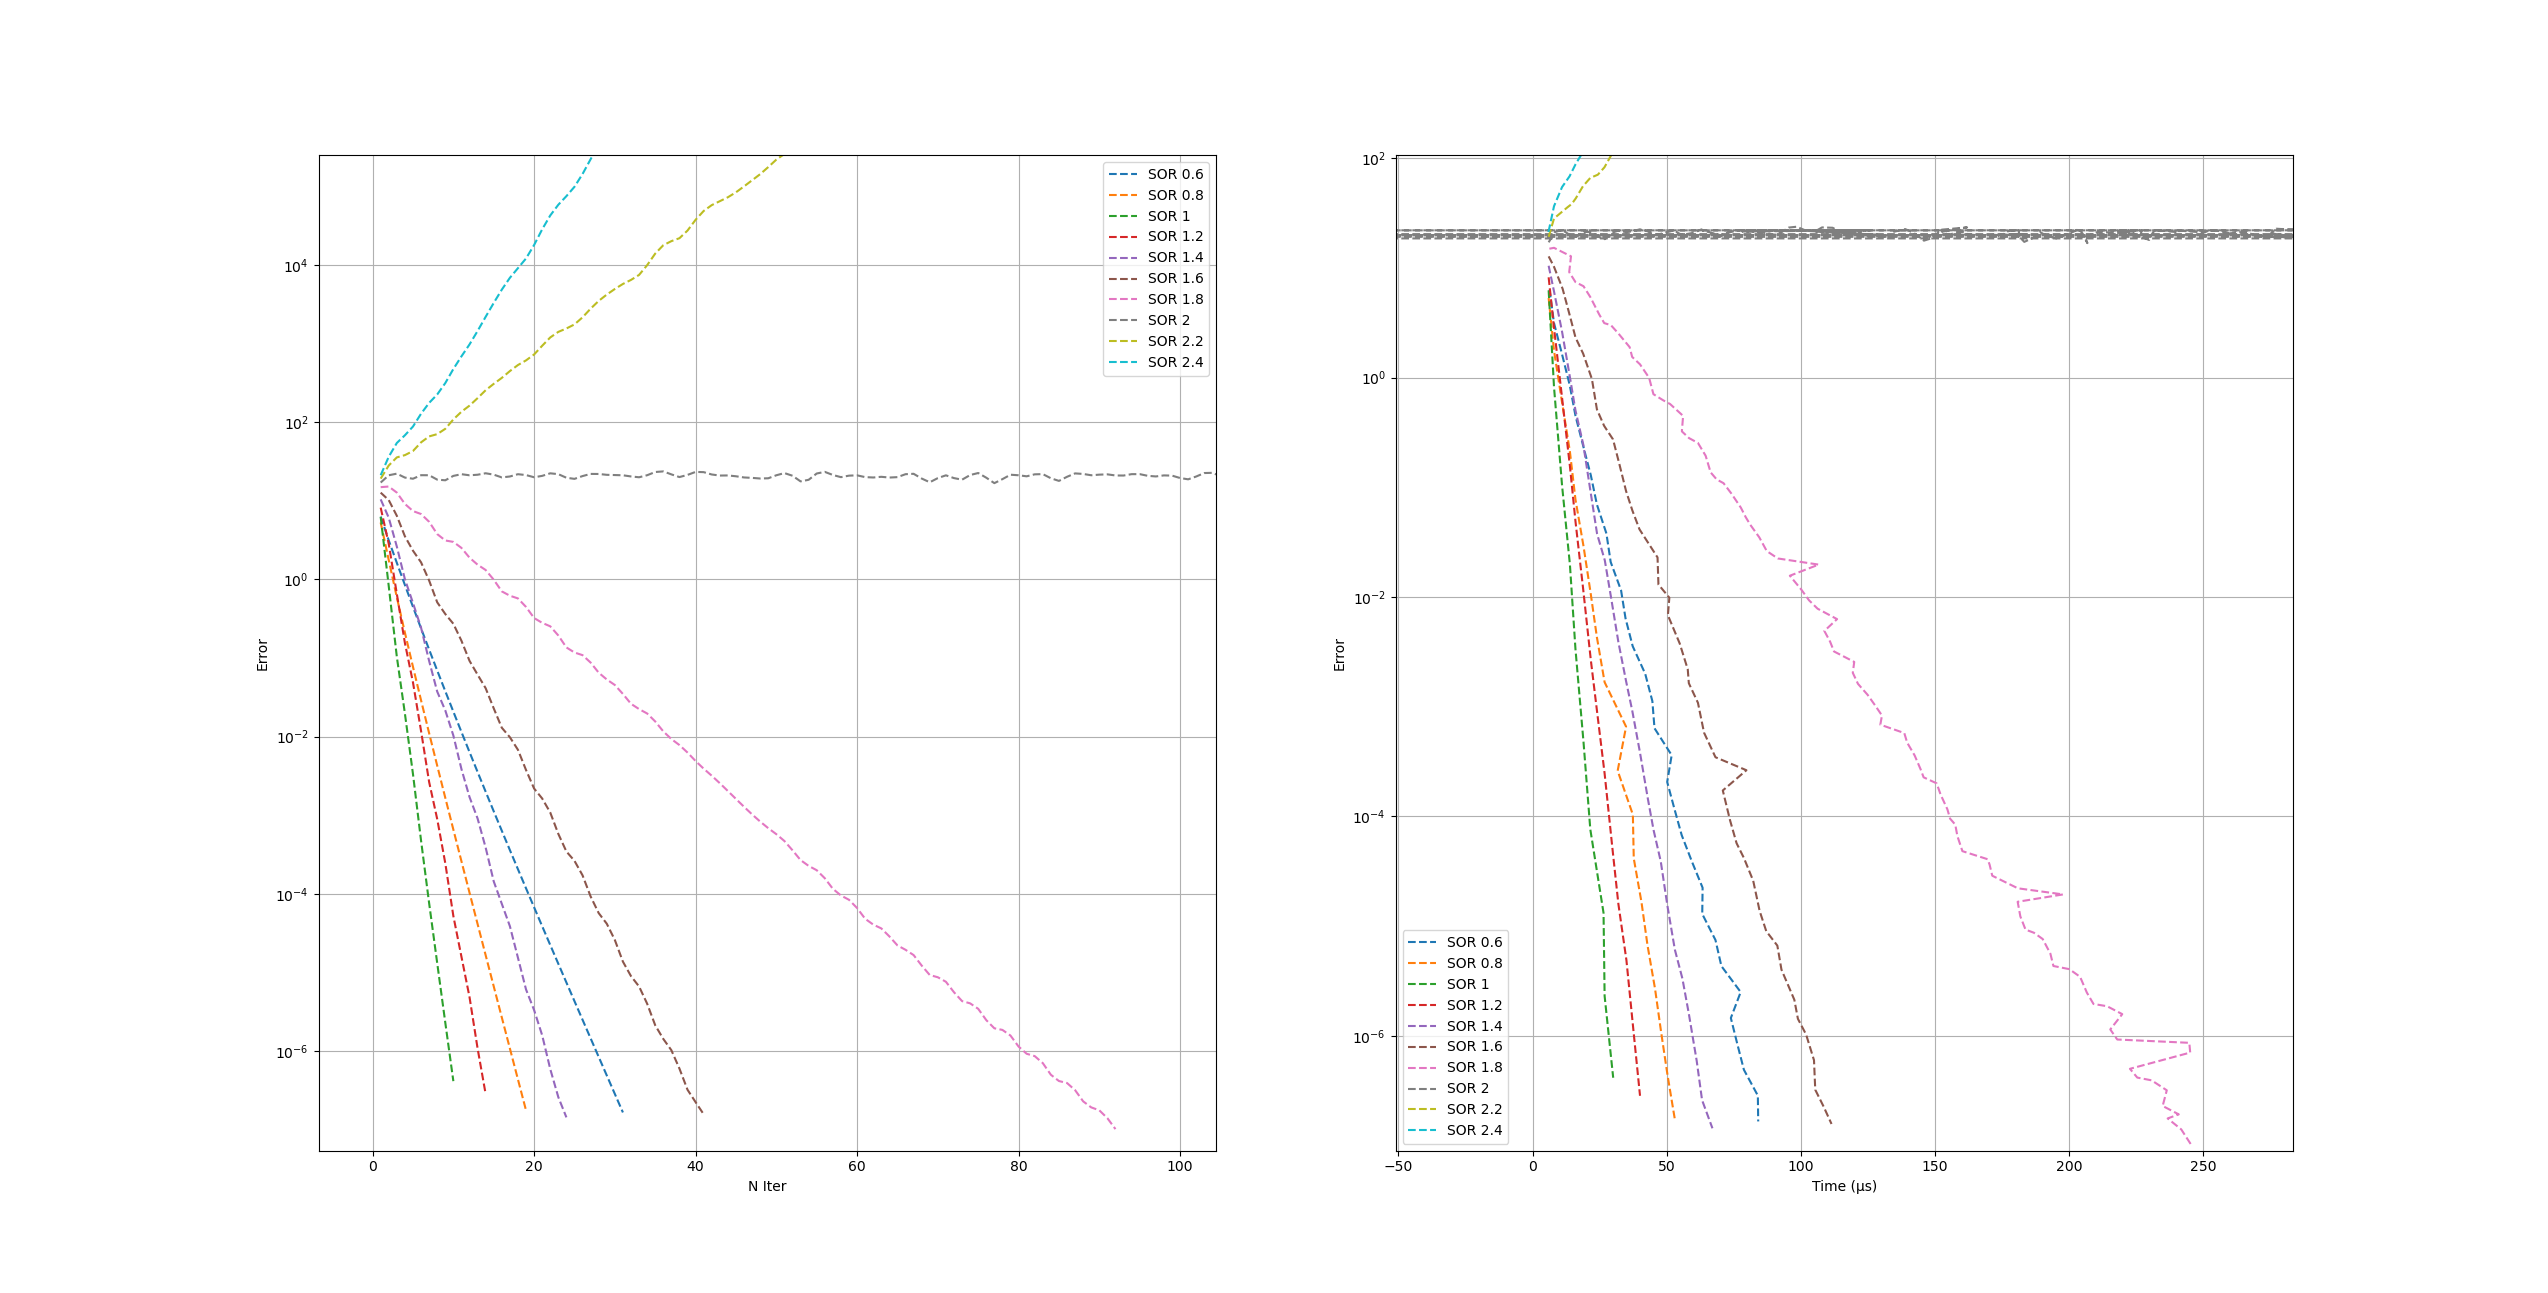
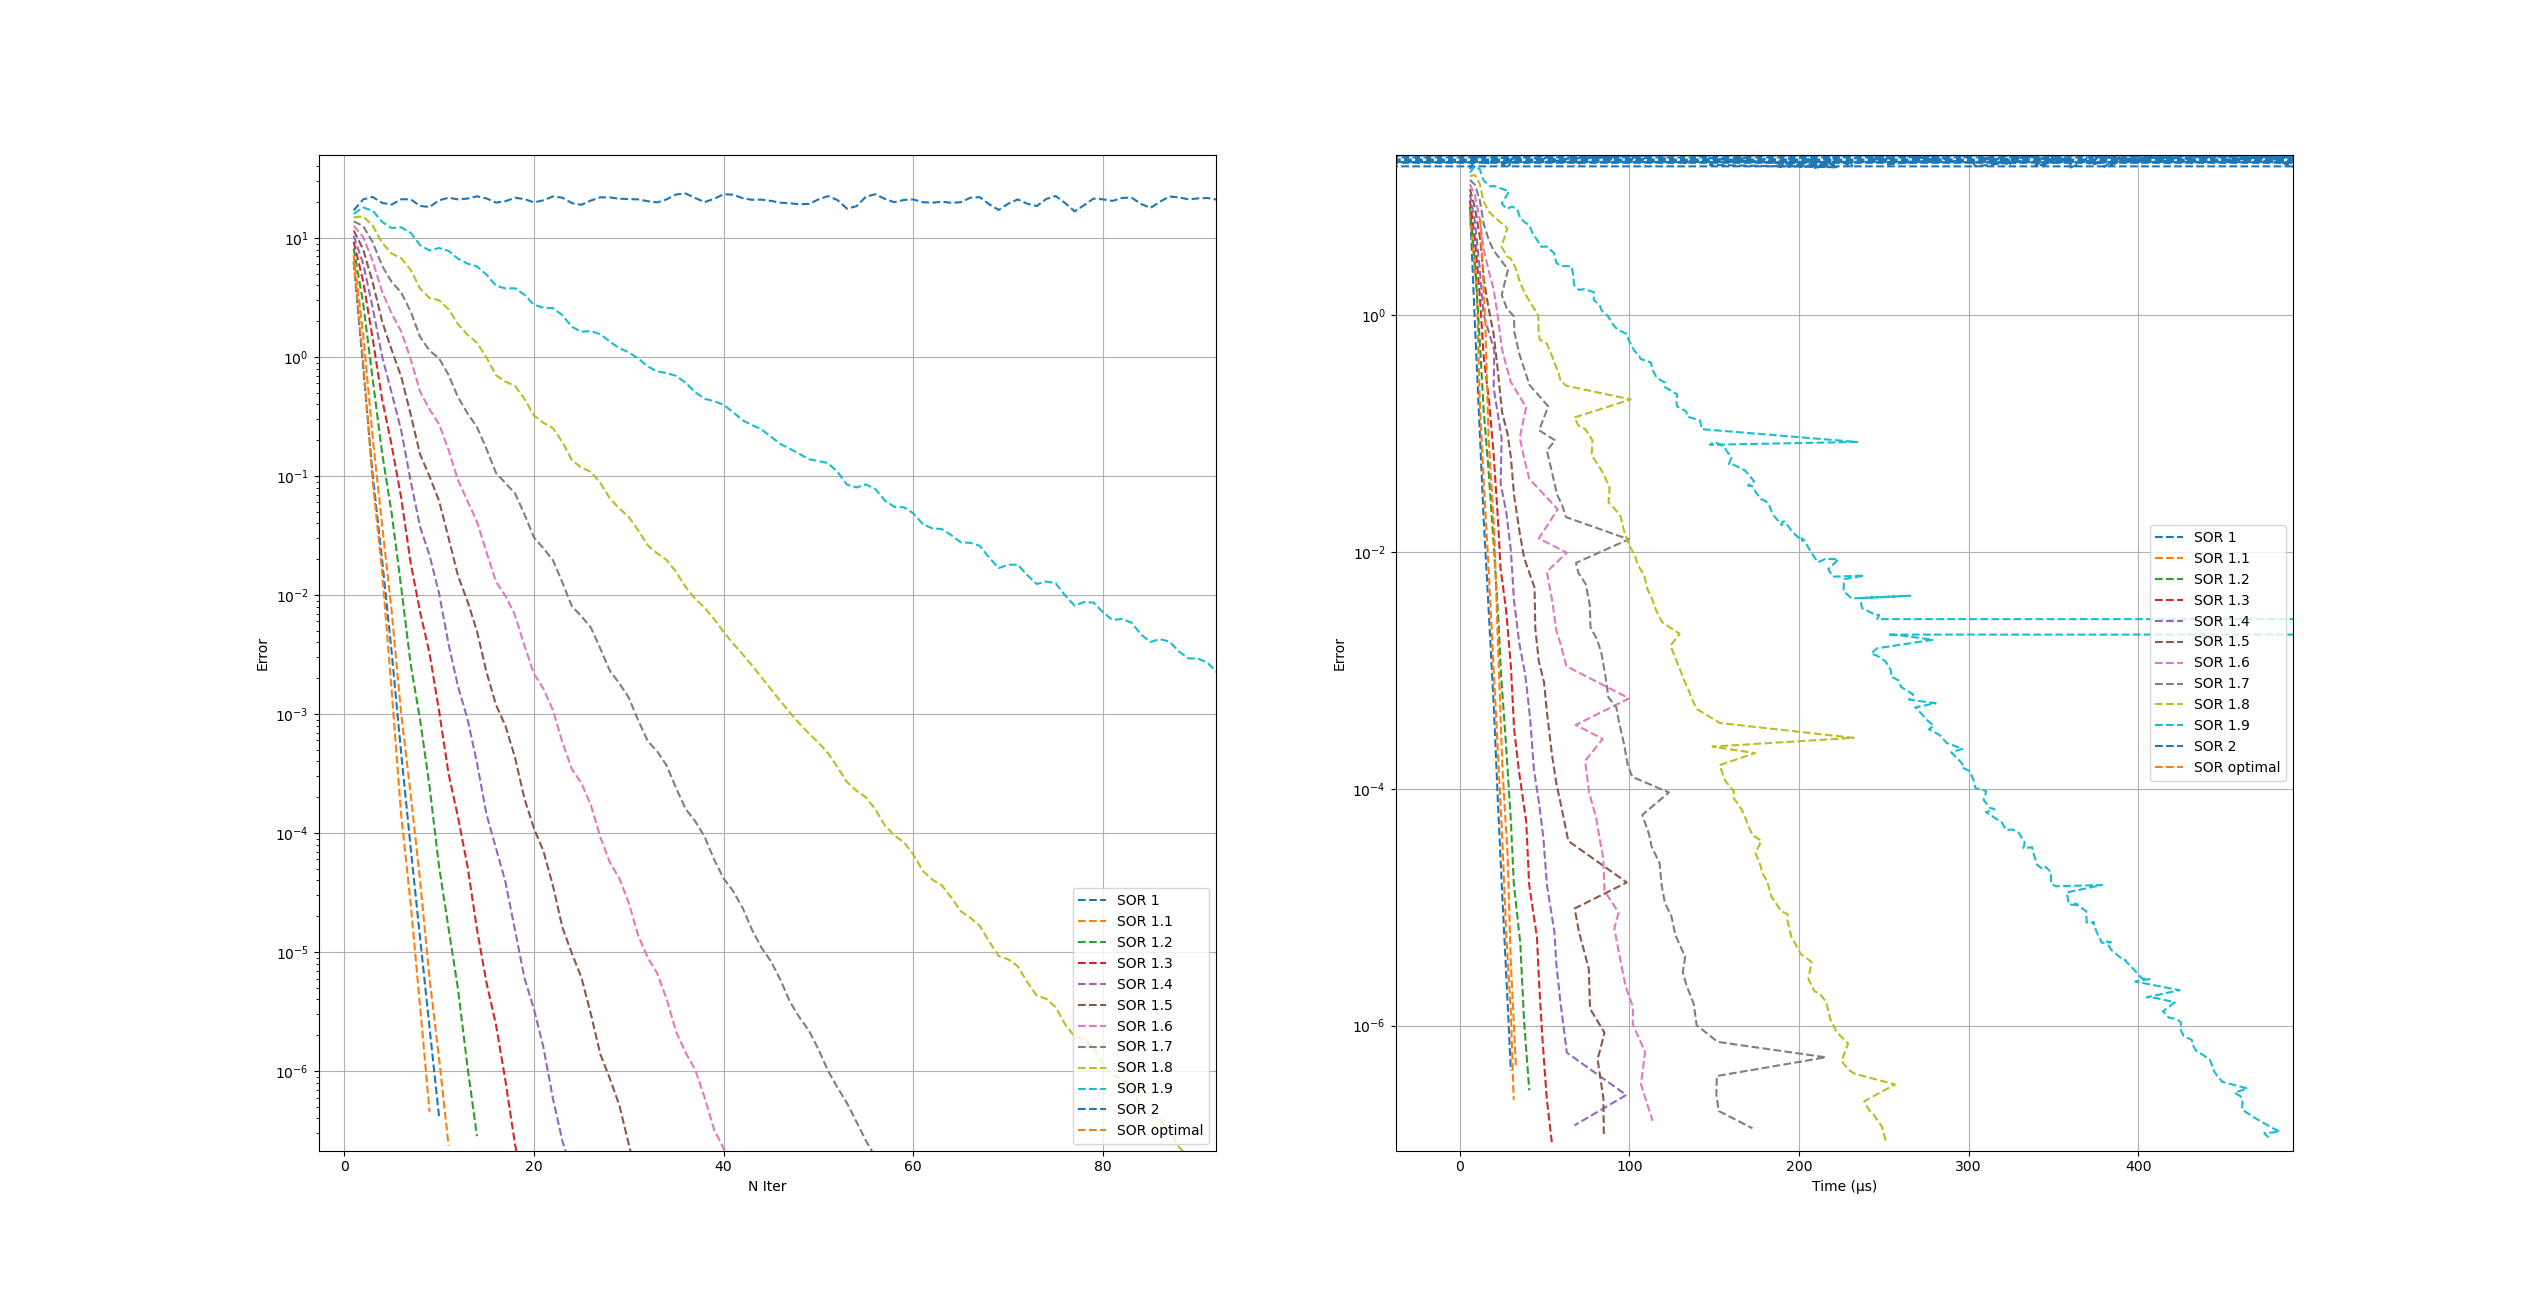
upgrade SORvsOmega

diff --git a/timeMesure/SORvsOmega.cpp b/timeMesure/SORvsOmega.cpp
@@ -5,7 +5,7 @@
 
 #define TESTED_TYPE double
 
-TESTED_TYPE get_omega(int omega){return omega*0.2+0.6;}
+TESTED_TYPE get_omega(int omega){return omega*0.1+1;}
 
 int main(){
     const int MATRIX_SIZE = 10;
@@ -28,10 +28,12 @@ int main(){
     file.open("./SORvsOmega.csv");
     file<<"N_iter,";
     std::cout<<"checkpoint\n";
-    for(int omega = 0; omega<MAX_OMEGA_INT; omega++){
+    for(int omega = 0; omega<=MAX_OMEGA_INT; omega++){
         file<<"SOR_"<<get_omega(omega)<<"_error,";
         file<<"SOR_"<<get_omega(omega)<<"_time,";
     }
+    file<<"SOR_optimal_error,";
+    file<<"SOR_optimal_time,";
     file<<"\n";
     auto st = std::chrono::high_resolution_clock::now();
     auto en = std::chrono::high_resolution_clock::now();
@@ -40,7 +42,7 @@ int main(){
     double error;
     for(int NIter = 1; NIter <= 1000; NIter+=1){
         file<<NIter<<",";
-        for(int omega = 0; omega<MAX_OMEGA_INT; omega++){
+        for(int omega = 0; omega<=MAX_OMEGA_INT; omega++){
 
             error = 0;
             time = 0;
@@ -53,6 +55,16 @@ int main(){
             }
             file<<error/N_TO_AV<<","<<time/N_TO_AV<<",";             
         }
+        error = 0;
+        time = 0;
+        for(int a=0; a < N_TO_AV; a++){
+            st = std::chrono::high_resolution_clock::now();
+            answ = SOR(A, b, NIter, 1e-7, std::vector<TESTED_TYPE>(MATRIX_SIZE));
+            en = std::chrono::high_resolution_clock::now();
+            error += abs(answ - x);
+            time += std::chrono::duration_cast<std::chrono::microseconds>(en-st).count();
+        }
+        file<<error/N_TO_AV<<","<<time/N_TO_AV<<",";  
         file<<"\n";
     }
     file.close();

diff --git a/README.md b/README.md
@@ -16,5 +16,7 @@
 Измерения проводились на матрице 10x10, из графиков видно, что МПИ с ускорением Чебышёва сходится быстрее по времени чем без ускорения, а также ошибка убывает быстрее чем у всех итерационных методах если считать от количества итераций.
 
 
-#### Зависимость скорости схождения метода верхней релаксации от параметра омеги. (Омега не может быть меньше 1, но здесь рассмотрел интервал от 0ю6 до 2.5)
+#### Зависимость скорости схождения метода верхней релаксации от параметра омеги.
 ![Тест SOR](https://github.com/ZaharDudar/LinearSystemSolver/blob/main/mdmaterial/Figure_5.png)
+
+Оптимальной омегой расчитанной по формуле оказалось 1.0245, видно, что при этом значении метод сходится быстрее всего.
